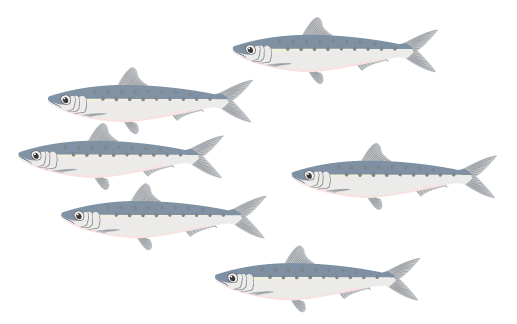
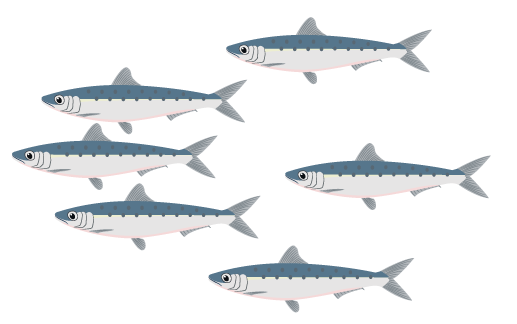
add dg

diff --git a/dev/sass/dinoGame.scss b/dev/sass/dinoGame.scss
@@ -14,7 +14,7 @@ body{
 }
 
 .dino-sea1{
-    width: 35%; 
+    width: 40%; 
     position: absolute;
     top: 10%;
     right: 30%;
@@ -25,14 +25,41 @@ body{
     width: 100%;
 }
 
-.Fish1{
+// ---------------fish
+
+.Fish-1{
     width: 18%; 
     position: absolute;
-    top: 25%;
-    right: 5%;
+    top: 35%;
+    right: 10%;
     z-index: 1;
 }
 
-.Fish1 img{
+.Fish-1 img{
     width: 100%;
 }
+
+.Fish-2{
+    width: 10%; 
+    position: absolute;
+    top: 35%;
+    left: 5%;
+    z-index: 1;
+}
+
+.Fish-2 img{
+    width: 100%;
+}
+
+.Fish-3{
+    width: 10%; 
+    position: absolute;
+    bottom: 35%;
+    left: 23%;
+    z-index: 1;
+}
+
+.Fish-3 img{
+    width: 100%;
+}
+

diff --git a/dev/dinoGame.html b/dev/dinoGame.html
@@ -16,12 +16,16 @@
         <div class="dino-sea1">
             <img src="./images/dinoGame/dino-sea1.png" alt="">
         </div>
-    
-        <div class="Fish1">
+
+        <div class="Fish-1">
             <img src="./images/dinoGame/fish-1.png" alt="">
         </div>
-
-        
+        <div class="Fish-2">
+            <img src="./images/dinoGame/fish-2.png" alt="">
+        </div>
+        <div class="Fish-3">
+            <img src="./images/dinoGame/fish-3.png" alt="">
+        </div>
 
     </div>
 
